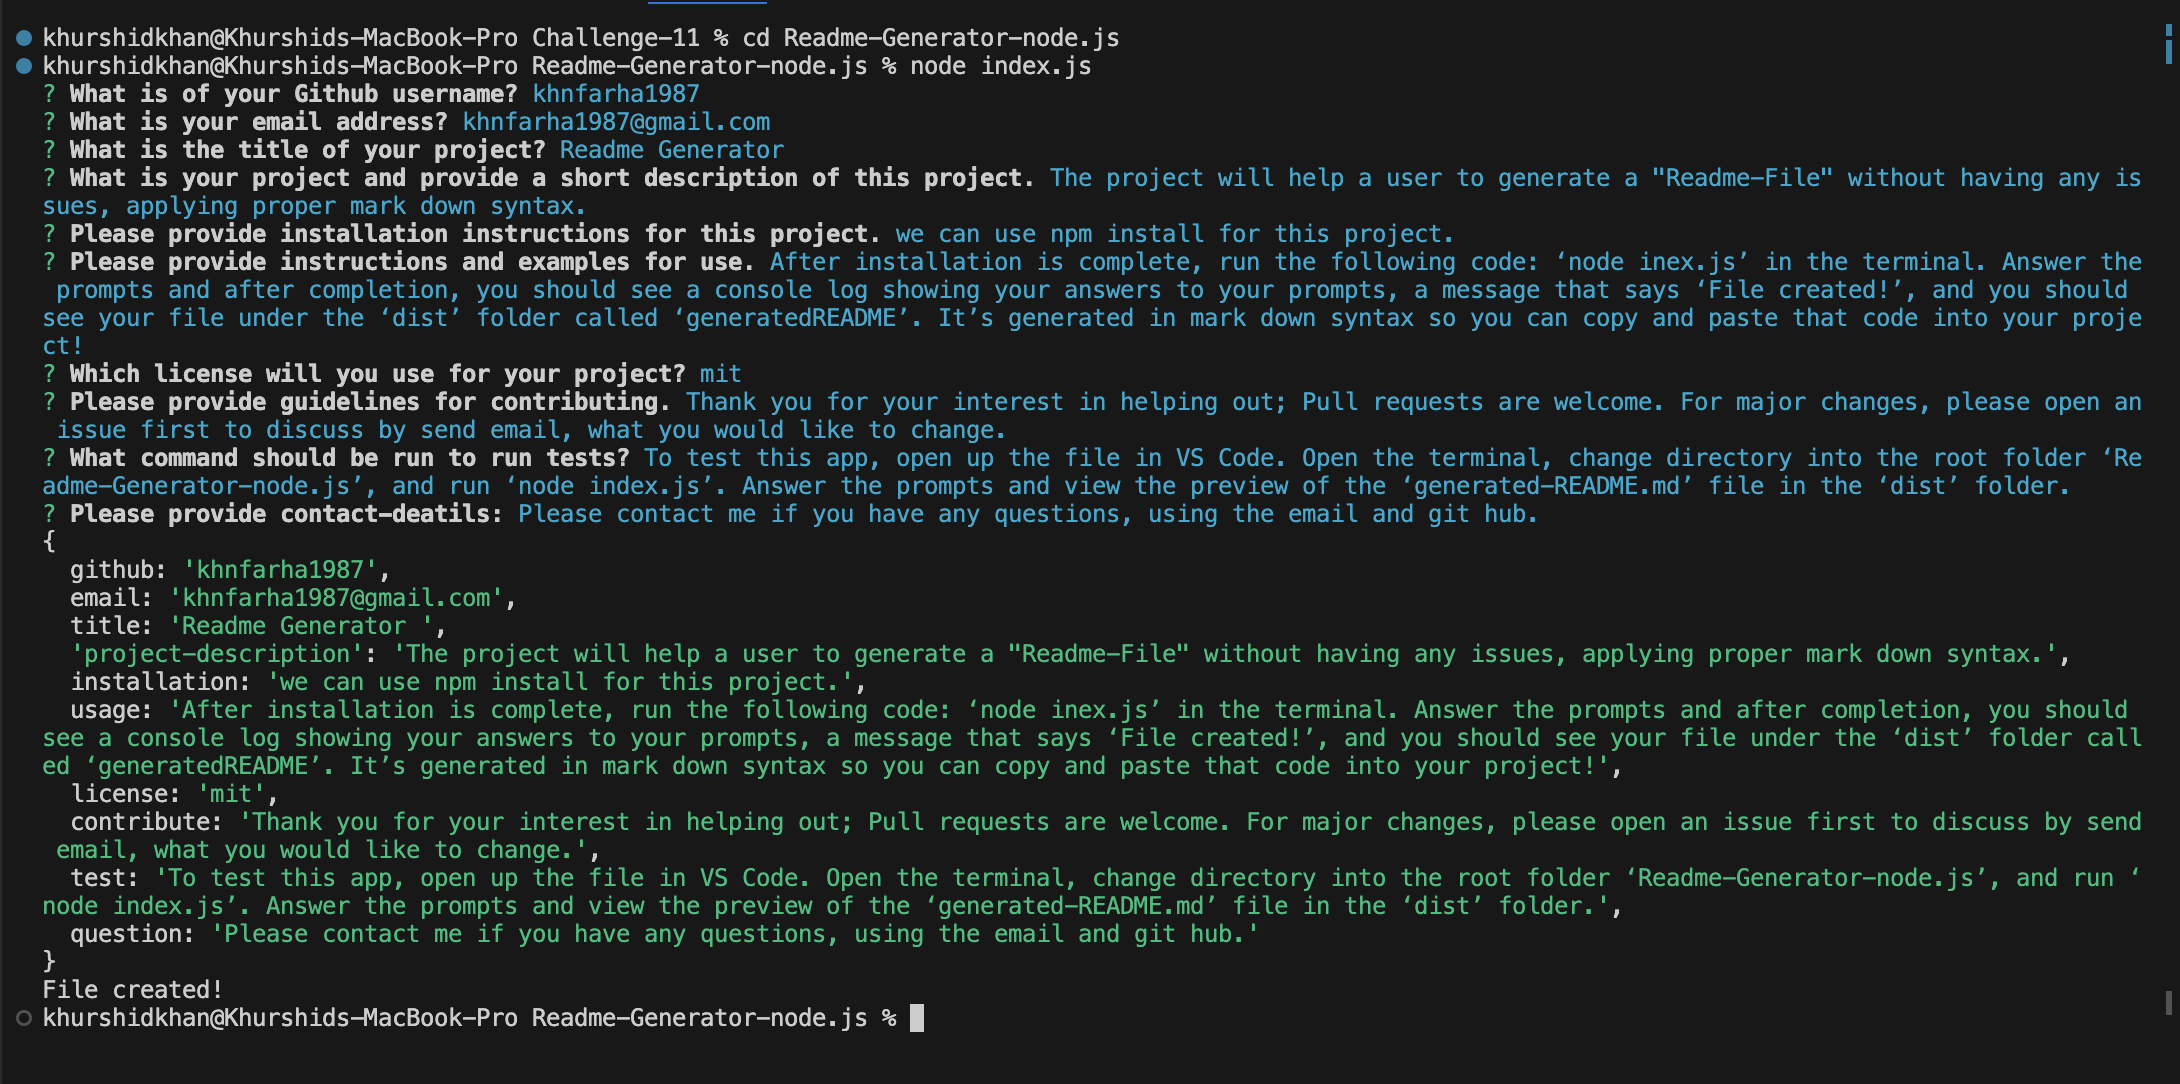
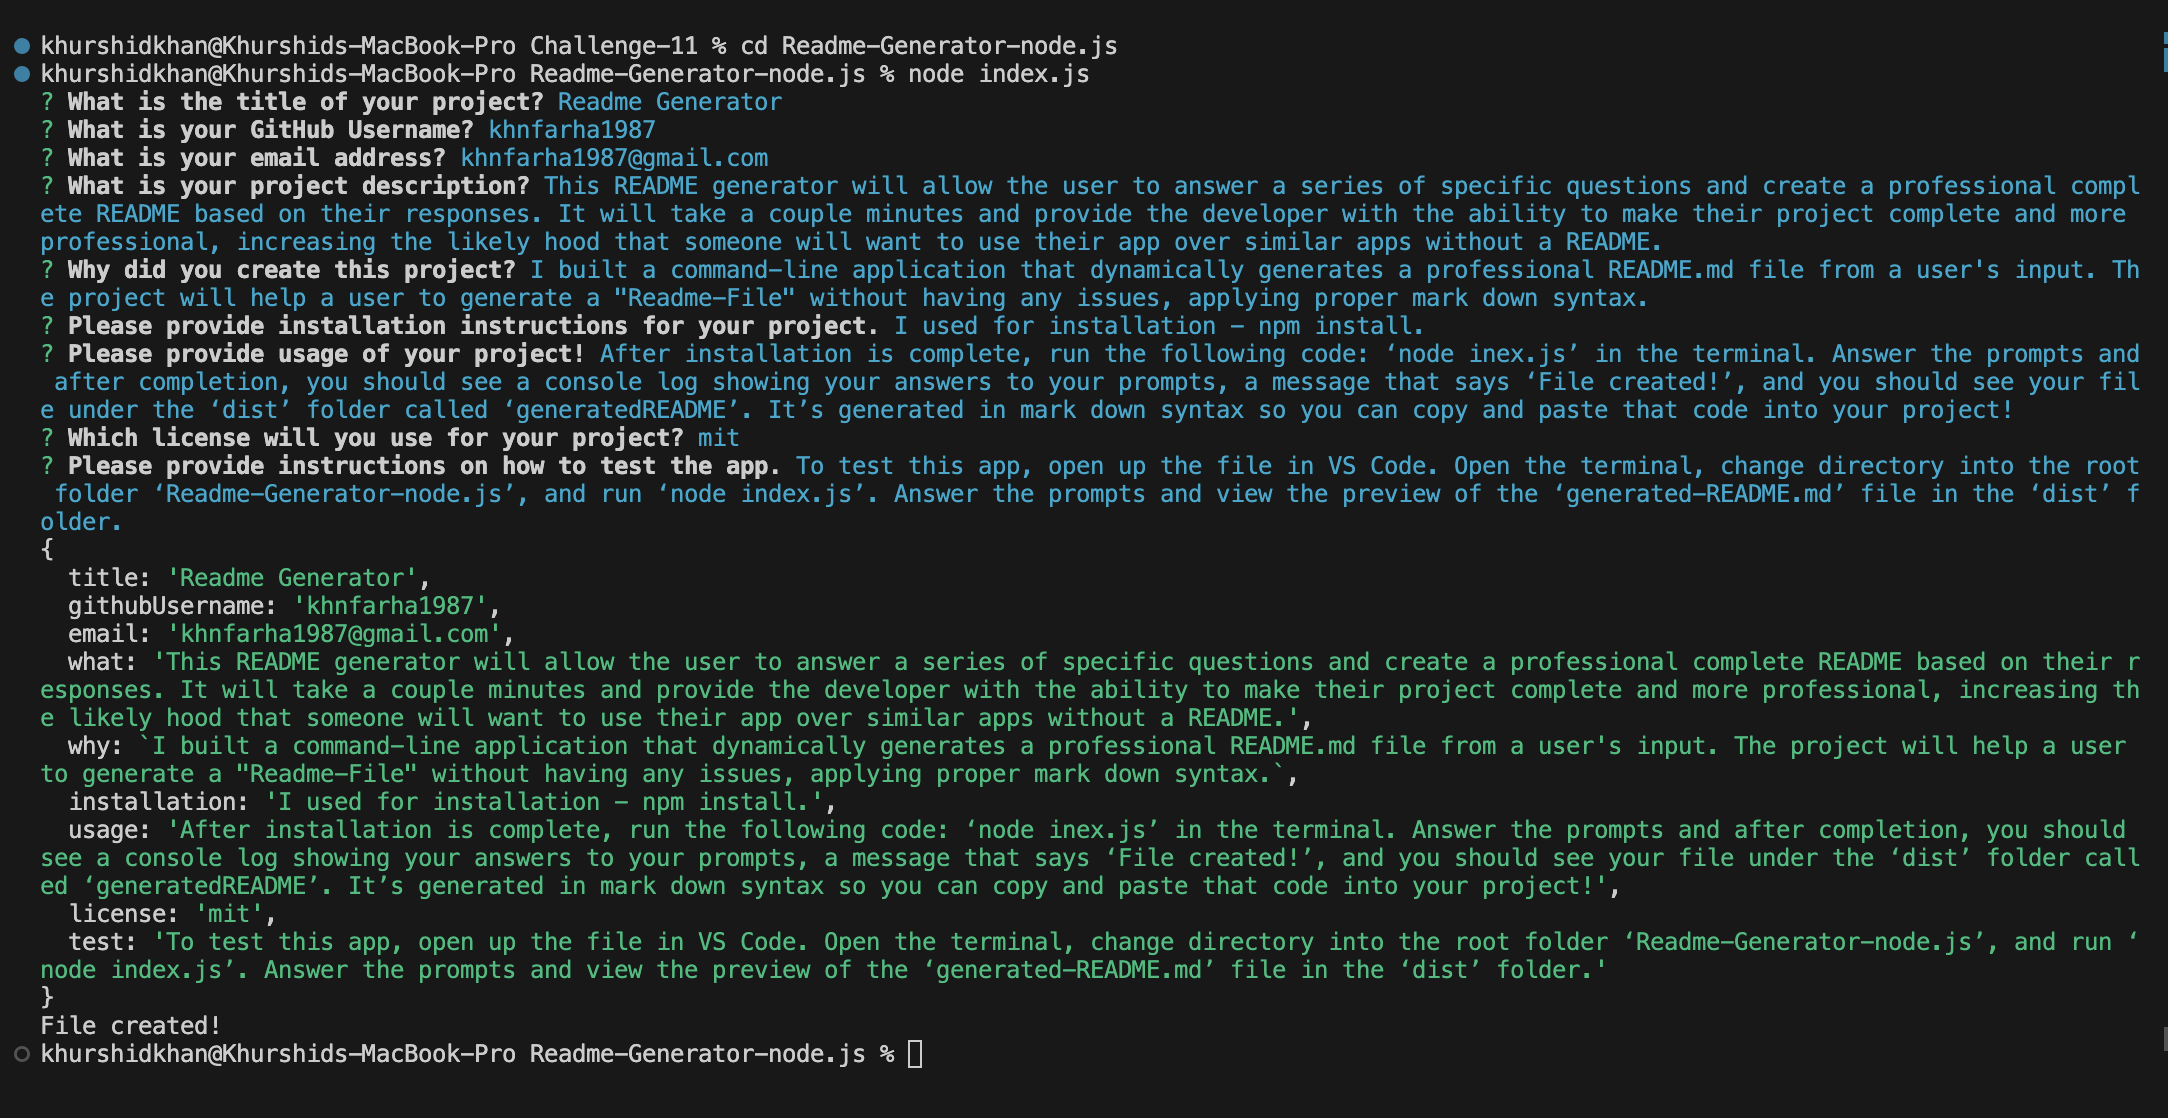
update comments and add image link.

Changed region(s): [[0.0, 0.0, 0.9889, 0.9742], [0.9889, 0.9133, 1.0, 0.9437], [0.9889, 0.0304, 1.0, 0.0609]]

diff --git a/index.js b/index.js
@@ -1,74 +1,153 @@
-// Packages needed for this application
-const path = require('path');
-const fs = require('fs');
+// Packages needed for this project.
 const inquirer = require('inquirer');
 const generateMarkdown = require('./utils/generateMarkdown.js');
+const fs = require('fs');
 
-// Array of questions for user input
+// Used Array to create questions for user input 
 const questions = [
-
     {
-        type: 'input',
-        message: 'What is of your Github username?',
-        name: 'github',
-    },
-    {
-        type: 'input',
-        name: 'email',
-        message: 'What is your email address?',
-    },
-    {
+        // question for title
         type: 'input',
         name: 'title',
         message: 'What is the title of your project?',
-
+        validate: titleInput => {
+            if (titleInput) {
+                return true;
+            } else {
+                console.log('Please enter your title!');
+                return false;
+            }
+        }
     },
     {
+        // question for git account user
         type: 'input',
-        name: 'description',
-        message: 'What is your project and provide a short description of this project.',
+        name: 'githubUsername',
+        message: 'What is your GitHub Username?',
+        validate: githubInput => {
+            if (githubInput) {
+                return true;
+            } else {
+                console.log('Please enter your GitHub username!');
+                return false;
+            }
+        }
     },
     {
+        // question for email address
+        type: 'input',
+        name: 'email',
+        message: 'What is your email address?',
+        validate: githubInput => {
+            if (githubInput) {
+                return true;
+            } else {
+                console.log('Please enter your email address!');
+                return false;
+            }
+        }
+    },
+    {
+        // question for project description
+        type: 'input',
+        name: 'what',
+        message: 'What is your project description?',
+        validate: whatInput => {
+            if (whatInput) {
+                return true;
+            } else {
+                console.log('Please enter your project description!');
+                return false;
+            }
+        }
+    },
+    {
+        // question for why create this application
+        type: 'input',
+        name: 'why',
+        message: 'Why did you create this project?',
+        validate: whyInput => {
+            if (whyInput) {
+                return true;
+            } else {
+                console.log('Please enter why you created this project!');
+                return false;
+            }
+        }
+    },
+    {
+        // question for installation
         type: 'input',
         name: 'installation',
-        message: 'Please provide installation instructions for this project.',
-
+        message: 'Please provide installation instructions for your project.',
+        validate: installInput => {
+            if (installInput) {
+                return true;
+            } else {
+                console.log('Please enter your installation instructions!');
+                return false;
+            }
+        }
     },
     {
+        // question for usage
         type: 'input',
         name: 'usage',
-        message: 'Please provide instructions and examples for use.',
-
+        message: 'Please provide usage of your project!',
+        validate: usageInput => {
+            if (usageInput) {
+                return true;
+            } else {
+                console.log('Please enter your usage!');
+                return false;
+            }
+        }
     },
     {
+        // question for license information
         type: 'list',
         name: 'license',
         message: 'Which license will you use for your project?',
         choices: ['agpl', 'apache', 'mit', 'no license']
     },
     {
+        // question for guideline of contribution
         type: 'input',
         name: 'contribute',
         message: 'Please provide guidelines for contributing.',
-
-
+        when: ({ confirmContributers }) => {
+            if (confirmContributers) {
+                return true;
+            } else {
+                return false;
+            }
+        },
+        validate: contributerInput => {
+            if (contributerInput) {
+                return true;
+            } else {
+                console.log('Please enter contributer guidelines!');
+                return false;
+            }
+        }
     },
     {
+        // question for test
         type: 'input',
         name: 'test',
-        message: 'What command should be run to run tests?',
-
-
-    },
-    {
-        type: 'input',
-        name: 'question',
-        message: 'Please provide contact-deatils:',
-
+        message: 'Please provide instructions on how to test the app.',
+        validate: testInput => {
+            if (testInput) {
+                return true;
+            } else {
+                console.log('Please enter your use test instructions!');
+                return false;
+            }
+        }
     }
 ];
 
-// function to write README file
+// Create function to write README file
 const writeFile = fileContent => {
     return new Promise((resolve, reject) => {
         fs.writeFile('./dist/generated-README.md', fileContent, err => {
@@ -85,7 +164,7 @@ const writeFile = fileContent => {
     });
 };
 
-// function to prompt questions and store user inputs
+// Create function to prompt questions and store user inputs
 const init = () => {
 
     return inquirer.prompt(questions)
@@ -94,7 +173,7 @@ const init = () => {
         })
 }
 
-// Function call to initialize app
+// Create function call to initialize app
 init()
     .then(readmeData => {
         console.log(readmeData);

diff --git a/utils/generateMarkdown.js b/utils/generateMarkdown.js
@@ -1,8 +1,8 @@
-// Function to return a message if user doesn't want contributors
+// Create Function to return a message for contributors, if user doesn't want contributors ****
 function renderContributingSection(confirmContributers, data) {
   if (!confirmContributers) {
     return `
-  Thank you for your interest in helping out; however, I will not be accepting contributions from third parties.
+  Thank you for your interest in helping out; Pull requests are welcome. For major changes, please open an issue first to discuss by send email, what you would like to change.
     `;
   } else {
     return `
@@ -11,8 +11,9 @@ function renderContributingSection(confirmContributers, data) {
   }
 }
 
-// Function that returns a license badge based on which license is passed in
-// If there is no license, return an empty string
+// Create Function that returns a license badge ****
+
+// If there is no license, then return an empty string--
 function renderLicenseBadge(license) {
   if (license !== 'no license') {
     return `
@@ -23,8 +24,9 @@ function renderLicenseBadge(license) {
   }
 }
 
-// Function that returns the license link
-// If there is no license, return an empty string
+// Create Function that returns the license link ****
+
+// If there is no license, then return an empty string--
 function renderLicenseLink(license) {
   if (license !== 'no license') {
     return `
@@ -35,8 +37,9 @@ function renderLicenseLink(license) {
   }
 }
 
-// Function that returns the license section of README
-// If there is no license, return an empty string
+// Create Function that returns the license section of README ****
+
+// If there is no license, then return an empty string--
 function renderLicenseSection(license) {
   if (license !== 'no license') {
     return `
@@ -51,8 +54,9 @@ function renderLicenseSection(license) {
   }
 }
 
-// Function that returns license in table of contents
-// If there is no license, return an empty string
+// Create Function that returns license in table of contents ****
+
+// If there is no license, then return an empty string--
 function renderLicenseTOC(license) {
   if (license !== 'no license') {
     return `
@@ -63,7 +67,7 @@ function renderLicenseTOC(license) {
   }
 }
 
-// Function to generate markdown for README
+// Create Function to generate markdown for README ****
 function generateMarkdown(data) {
   return `
   # ${data.title}
@@ -86,7 +90,6 @@ function generateMarkdown(data) {
 
   ${data.why}
 
-  ${data.how}
 
   ## [Installation](#table-of-contents)
 
@@ -95,10 +98,6 @@ function generateMarkdown(data) {
   ## [Usage](#table-of-contents)
 
   ${data.usage}
-  
-  For more information on how to add screenshots for examples, visit the following website:
-  
-  [Mark Down Tutorial](https://agea.github.io/tutorial.md/)
   
   ${renderLicenseSection(data.license)}
 

diff --git a/dist/generated-README.md b/dist/generated-README.md
@@ -1,5 +1,5 @@
 
-  # Readme Generator 
+  # Readme Generator
   
   
   ![badge](https://img.shields.io/badge/license-mit-blue)
@@ -19,23 +19,18 @@
   
   ## [Description](#table-of-contents)
 
-  undefined
+  This README generator will allow the user to answer a series of specific questions and create a professional complete README based on their responses. It will take a couple minutes and provide the developer with the ability to make their project complete and more professional, increasing the likely hood that someone will want to use their app over similar apps without a README.
 
-  undefined
+  I built a command-line application that dynamically generates a professional README.md file from a user's input. The project will help a user to generate a "Readme-File" without having any issues, applying proper mark down syntax.
 
-  undefined
 
   ## [Installation](#table-of-contents)
 
-  we can use npm install for this project.
+  I used for installation - npm install.
 
   ## [Usage](#table-of-contents)
 
   After installation is complete, run the following code: ‘node inex.js’ in the terminal. Answer the prompts and after completion, you should see a console log showing your answers to your prompts, a message that says ‘File created!’, and you should see your file under the ‘dist’ folder called ‘generatedREADME’. It’s generated in mark down syntax so you can copy and paste that code into your project!
-  
-  For more information on how to add screenshots for examples, visit the following website:
-  
-  [Mark Down Tutorial](https://agea.github.io/tutorial.md/)
   
   
   ## [License](#table-of-contents)
@@ -50,7 +45,7 @@
   ## [Contributing](#table-of-contents)
   
   
-  Thank you for your interest in helping out; however, I will not be accepting contributions from third parties.
+  Thank you for your interest in helping out; Pull requests are welcome. For major changes, please open an issue first to discuss by send email, what you would like to change.
     
 
   ## [Tests](#table-of-contents)
@@ -61,6 +56,6 @@
 
   Please contact me using the following links:
 
-  [GitHub](https://github.com/undefined)
+  [GitHub](https://github.com/khnfarha1987)
 
   [Email: khnfarha1987@gmail.com](mailto:khnfarha1987@gmail.com)

diff --git a/README.md b/README.md
@@ -46,7 +46,7 @@ Challenge 11 : In this Challenge, we'll build a command-line application that dy
  ![alt](./images/img-1.png)
 
  ![alt](./images/img-2.png)
- 
+
 # Table of Contents
 - [Working with ES6 \& Node.js: Professional README Generator](#working-with-es6--nodejs-professional-readme-generator)
 - [User Story:](#user-story)
@@ -60,6 +60,8 @@ Challenge 11 : In this Challenge, we'll build a command-line application that dy
   - [Contributing:](#contributing)
   - [Tests:](#tests)
   - [Questions:](#questions)
+- [Application GitHub URL:](#application-github-url)
+- [Application Deployed live URL:](#application-deployed-live-url)
 
  
 ## Installation:
@@ -94,3 +96,8 @@ Please contact me if you have any questions, using the following links:
   [Email: khnfarha1987@gmail.com](mailto:khnfarha1987@gmail.com)
 
 
+# Application GitHub URL:
+https://github.com/khnfarha1987/Readme-Generator-node.js
+
+# Application Deployed live URL:
+https://khnfarha1987.github.io/Readme-Generator-node.js/
